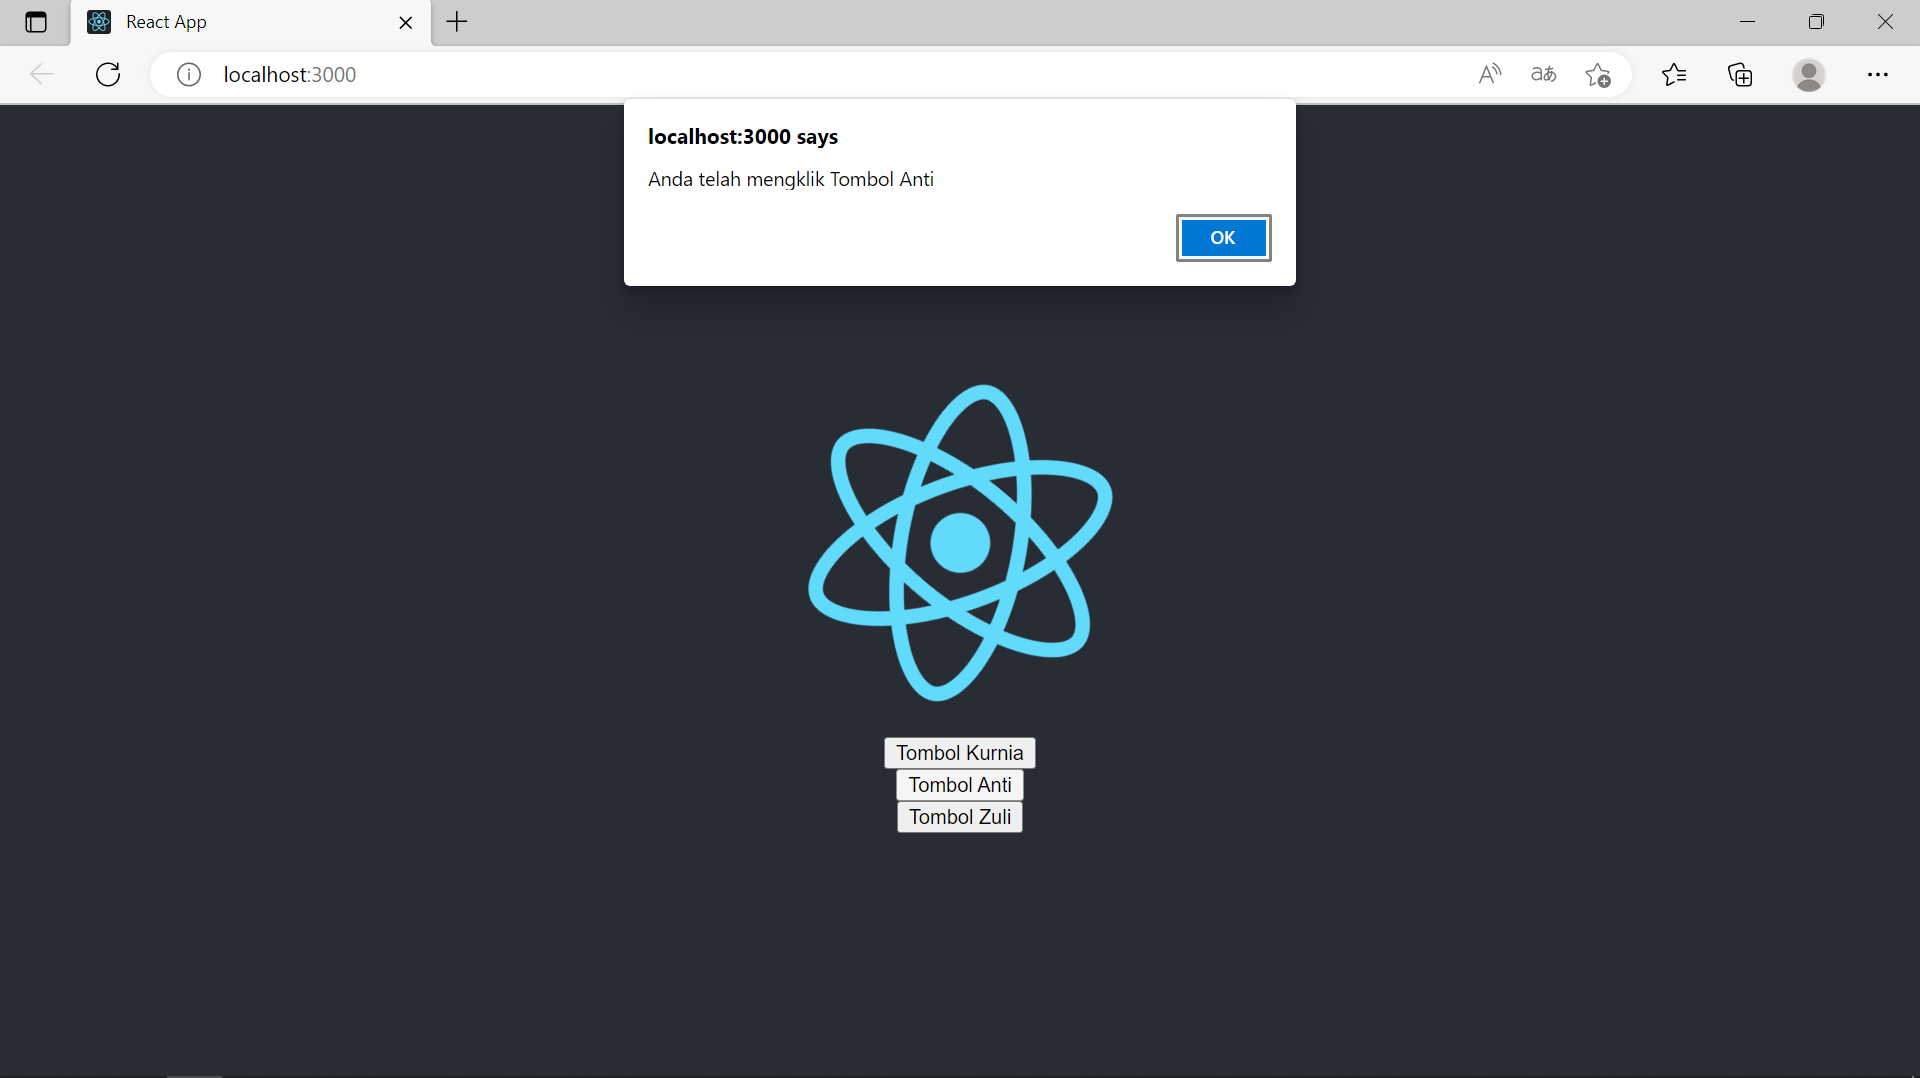
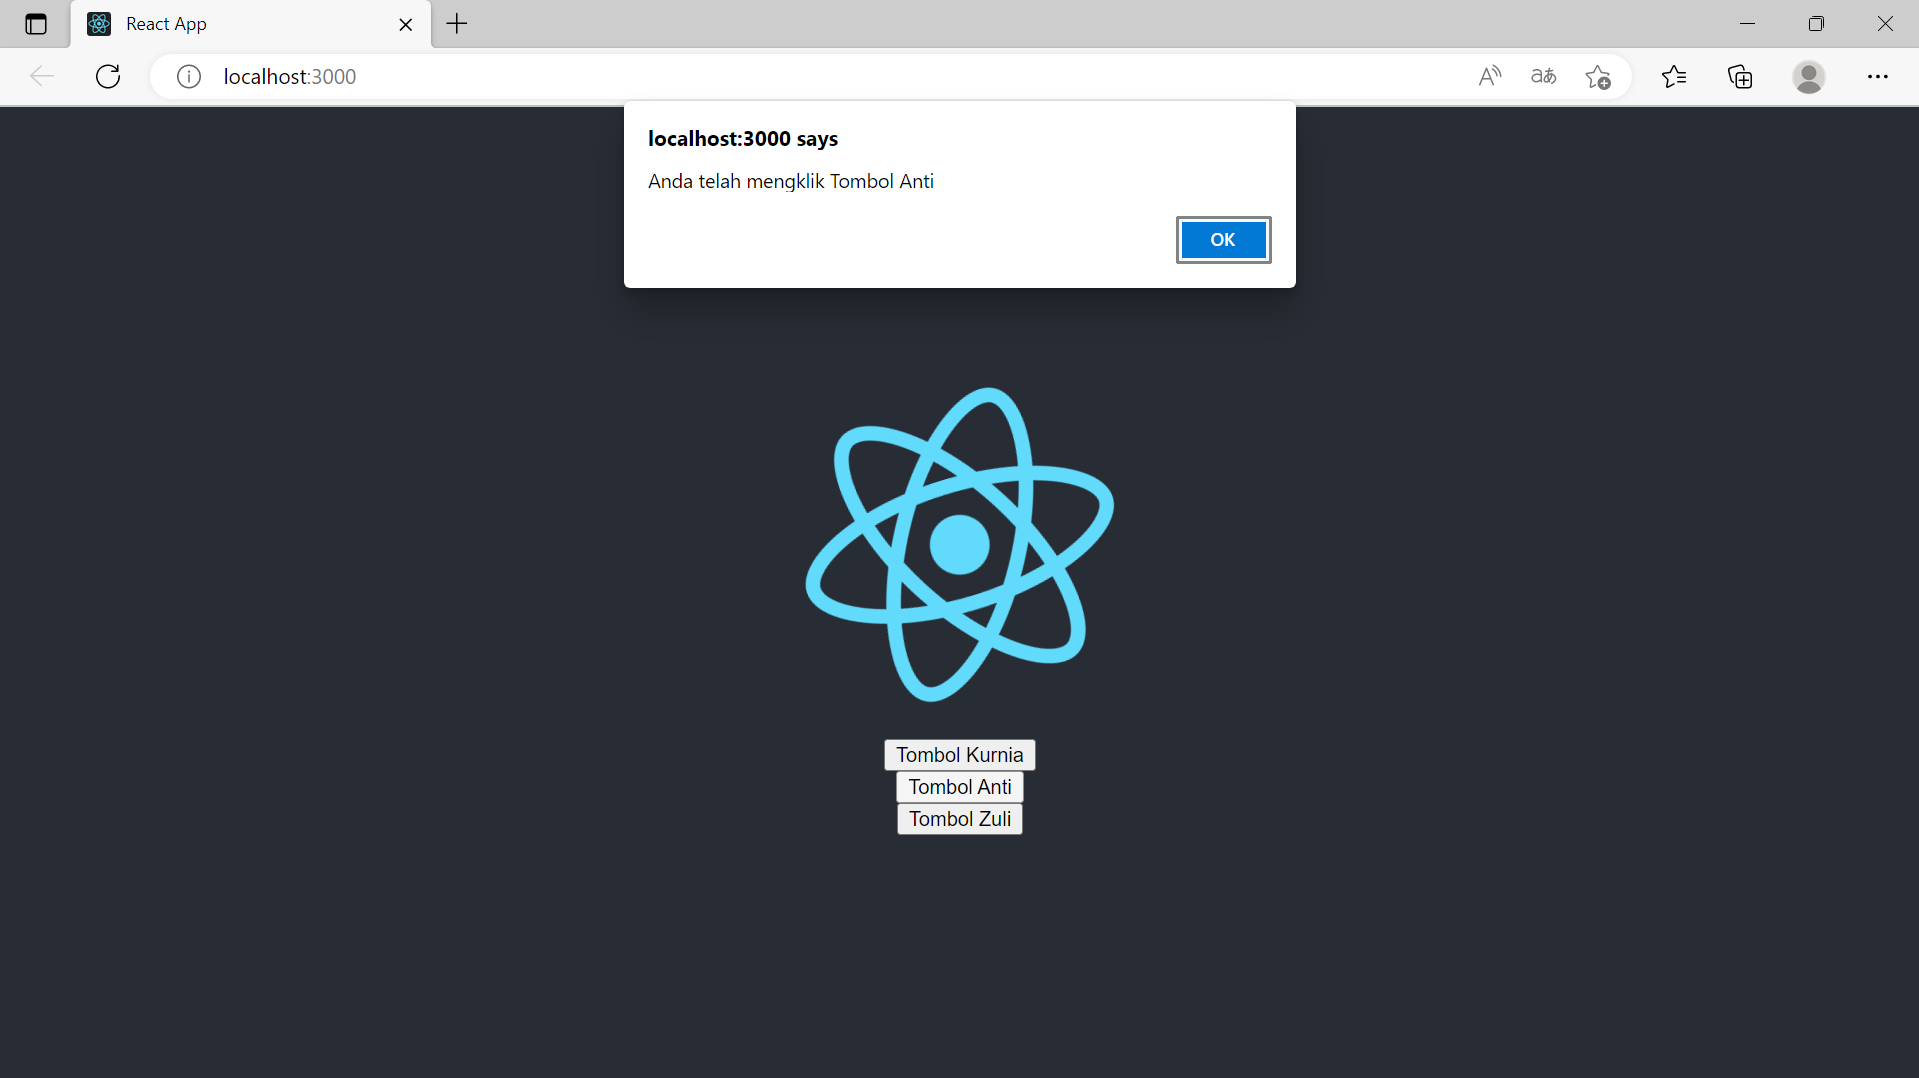
second

diff --git a/src/App.js b/src/App.js
@@ -1,13 +1,6 @@
 import logo from './logo.svg';
 import './App.css';
-
-const Tombol = (props) => {
-  return <button onClick={() =>{
-      return alert(`Anda telah mengklik Tombol ${props.name}`);
-    }}>
-      Tombol {props.name}
-    </button>
-}
+import Tombol from './components/Tombol';
 
 const App = () => {
   return (

diff --git a/src/components/Tombol.js b/src/components/Tombol.js
@@ -1,0 +1,11 @@
+import React from 'react'
+
+const Tombol = (props) => {
+    return <button onClick={() =>{
+        return alert(`Anda telah mengklik Tombol ${props.name}`);
+      }}>
+        Tombol {props.name}
+      </button>
+}
+
+export default Tombol;
